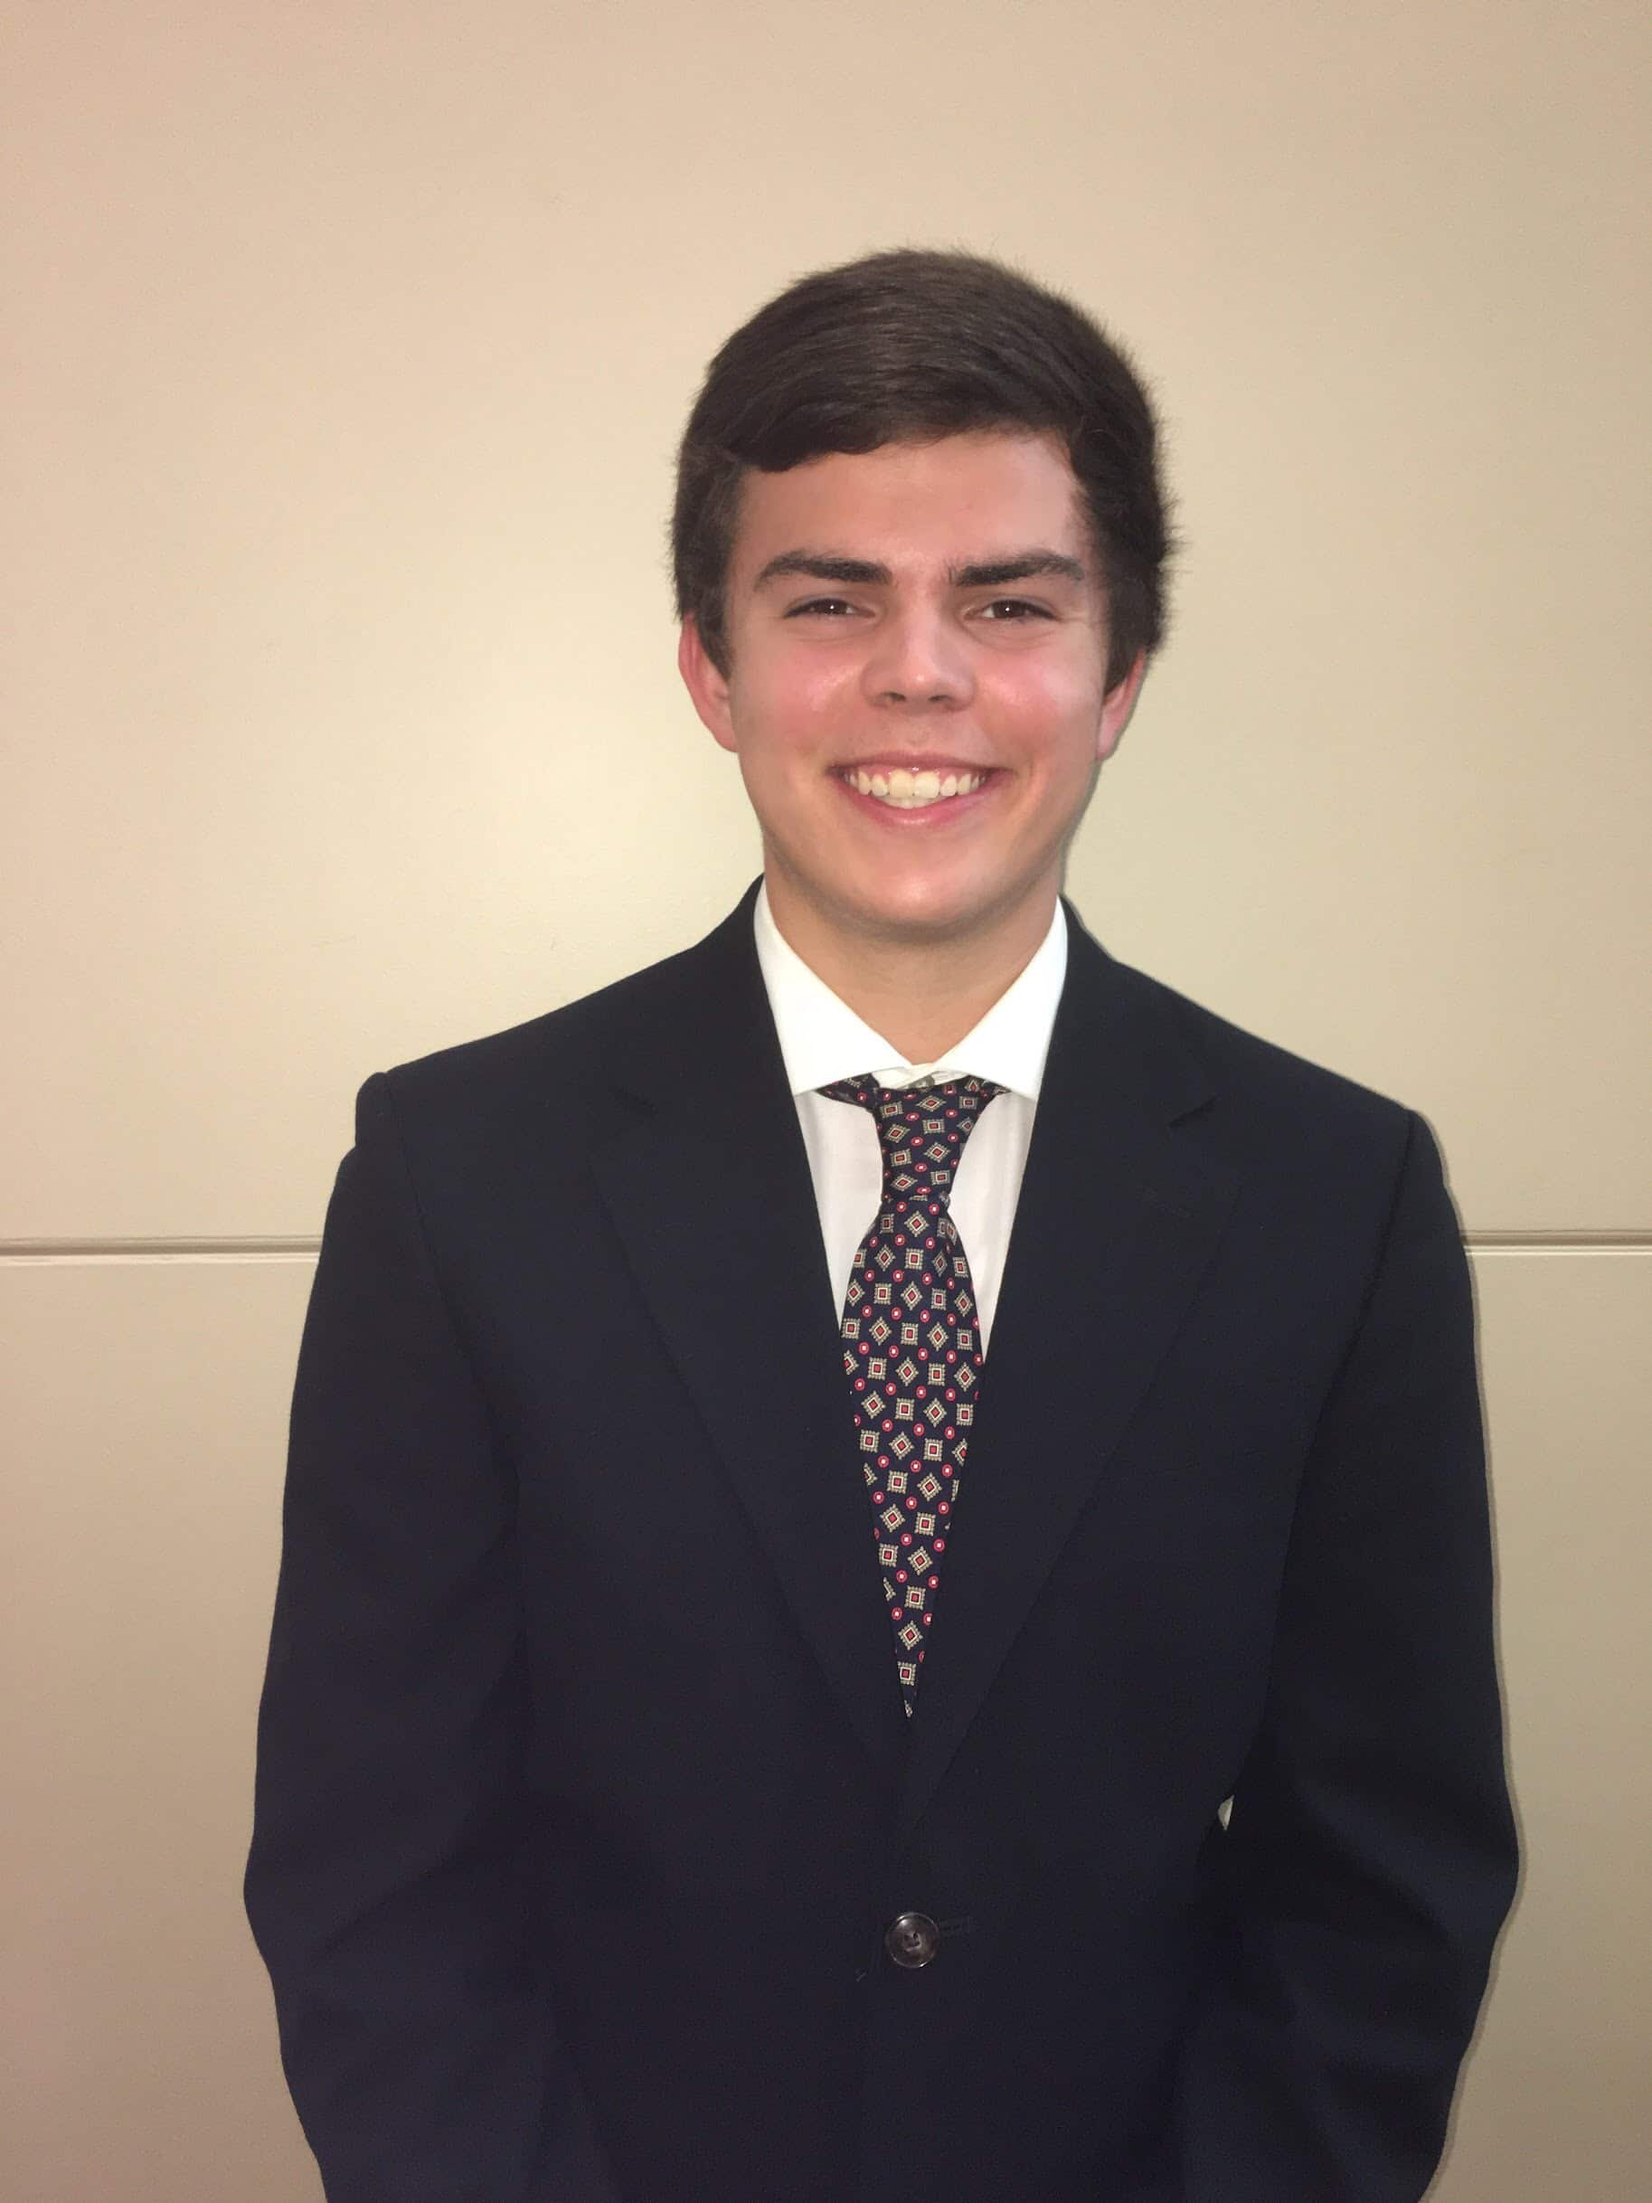
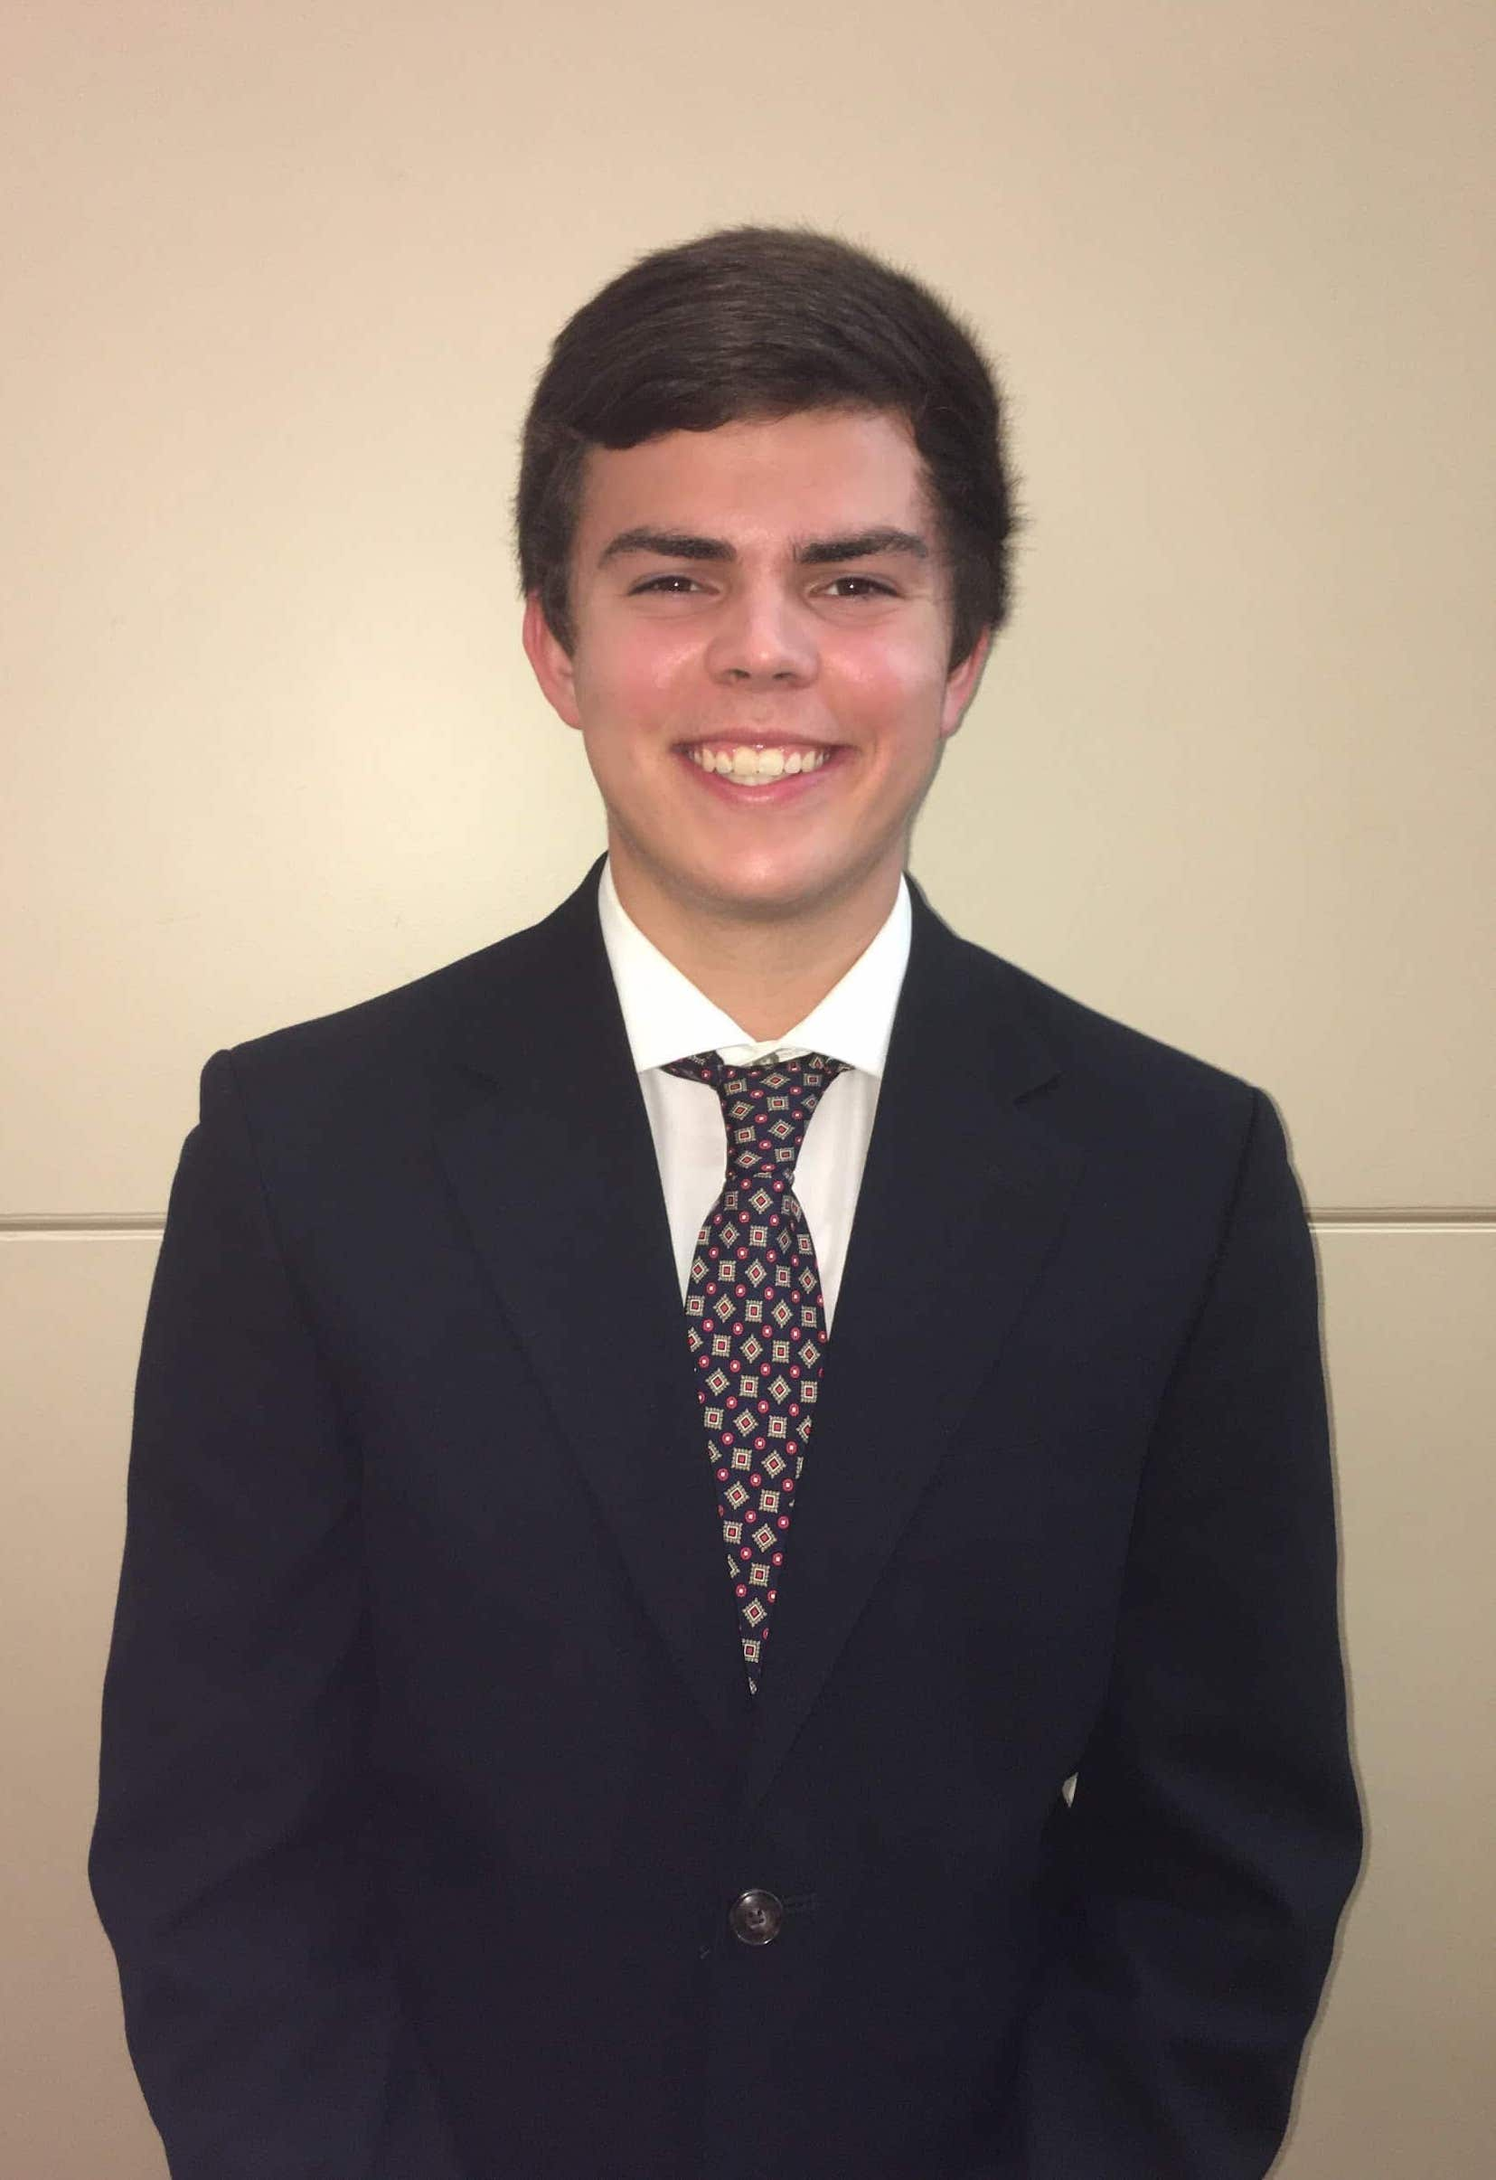
Fixed an error with Angular CLI not supporting latest typescript version. Also added a better picture to the homepage and had more UI Improvements

diff --git a/src/app/components/About/about.component.html b/src/app/components/About/about.component.html
@@ -15,7 +15,7 @@
 <div style="padding: 1% 5%; margin: 0; font-family: lato; background-color: #575757">
     <div class="row">
         <div class="col-sm-2">
-            <img src="./../../../assets/personal_picture.jpg" alt="Professional Headshot" class="aboutImage"
+            <img src="./../../../assets/Colby.jpg" alt="Professional Headshot" class="aboutImage"
                 [ngStyle]="{'margin-bottom': onDesktop ? '0%' : '3%' }">
         </div>
         <div class="col-sm-10" style="overflow-wrap: break-word; font-size: 2.5vmin">

diff --git a/src/app/components/Home/home.component.css b/src/app/components/Home/home.component.css
@@ -35,10 +35,10 @@
 .image-cropper {
     width: 30vmin;
     height: 30vmin;
-    margin: 0 31%;
+    margin: 4% 31%;
     border: 3px solid white;
     text-align: center;
     border-radius: 100%;
     background-size: cover;
-    background-image: url('./../../../assets/pro2.jpeg');
+    background-image: url('./../../../assets/personal_picture.jpg');
 }

diff --git a/src/app/components/About/about.component.css b/src/app/components/About/about.component.css
@@ -6,7 +6,7 @@ div, h1, .row {
     width: 100%;
     padding: 0; 
     margin: 0; 
-    border: 3px solid white;
+    border: 4px solid white;
 }
 
 .col-sm-3 {
